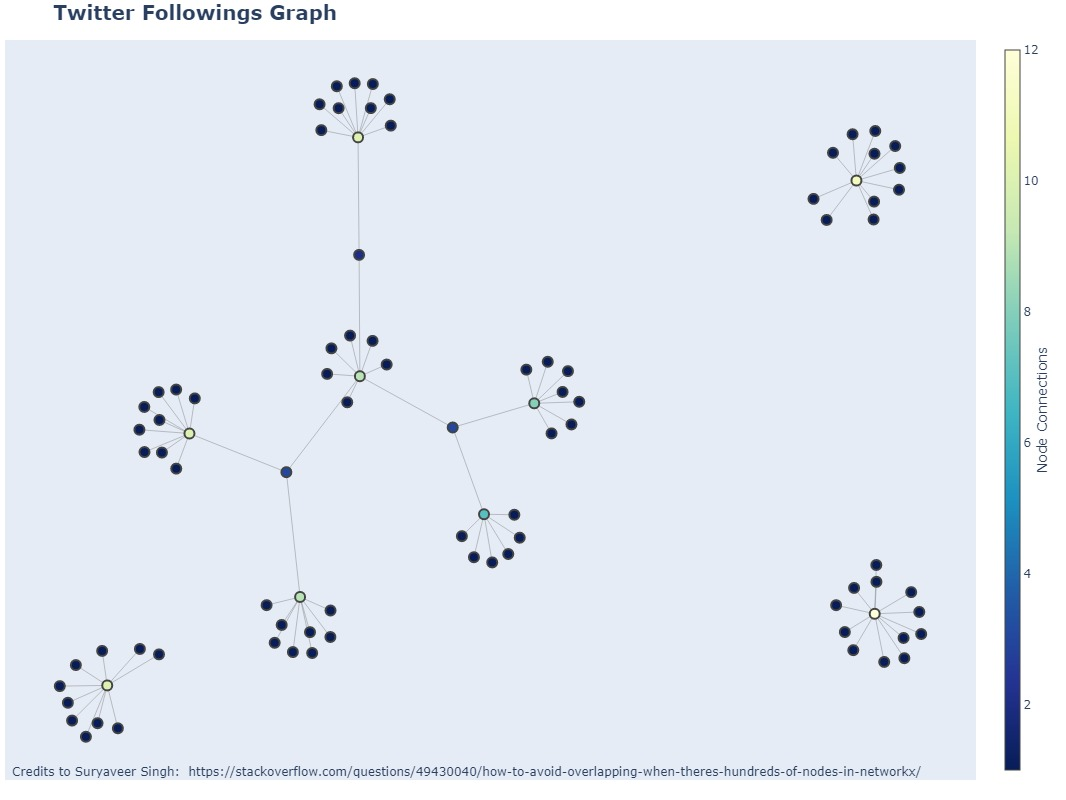
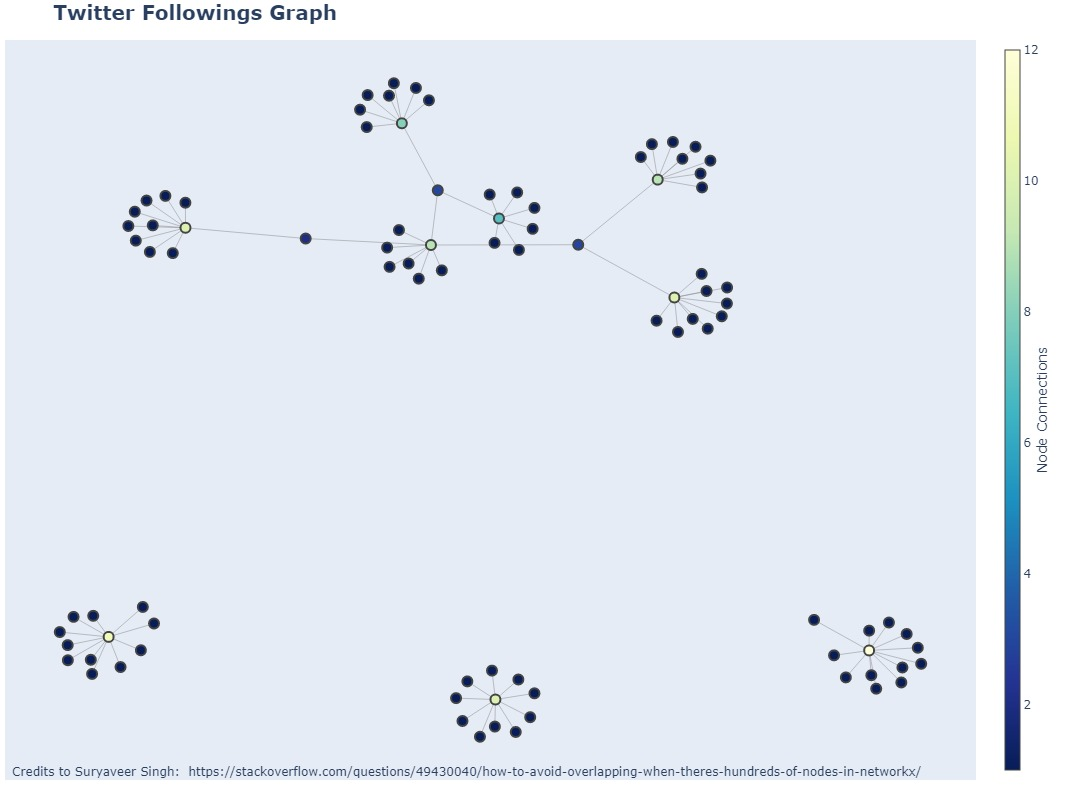
follow_graph.py can be run separately, added more comments into main script, to create most_recent_followings.txt to be used for follow_graph.py outside of the main script run, updated requirements.txt, added .gitignore

diff --git a/follow_graph.py b/follow_graph.py
@@ -2,6 +2,7 @@ import networkx as nx
 import matplotlib.pyplot as plt
 import plotly.graph_objects as go
 import os
+import ast
 
 def create_follow_graph(follow_dict):
 
@@ -100,38 +101,47 @@ def create_follow_graph(follow_dict):
 
     return fig
 
-### Testing function ###
+### Testing the function ###
 
-# sample_dict =   {'pranksy': 
-#                     {'@cleandood', '@Rosewolf_artist', '@rebelstudios_io', '@_Goldenwolf_', 
-#                     '@LostParadigms', '@jackbutcher', '@gabrielleydon', '@0xAndy_eth', '@futureverse' 
-#                     }, 
-#                 'SmartypantsNFT': 
-#                     {'@coinmamba', '@degenpoet', '@PalantirVision', '@ProTheDoge', '@MomoguroNFT', 
-#                     '@TateTheTalisman', '@ToysRUsNFT', '@ABC123Community', '@darenyoong', '@LtLollipop9' 
-#                     }, 
-#                 'talesrune': {'@symbiogenesisPR', '@pawwaoart', '@unfuddable', '@cryptoanon888', 
-#                     '@SweeperSolana', '@traderhuey', '@ALEXGM__', '@226ETH_', '@_3noki3_', '@CryptoCapo_' 
-#                     }, 
-#                 'fiin9021': {'@DimensionalsRPG', '@daytonmills', '@Bonne_Syu', '@ExodiaGods', 
-#                     '@MomoguroNFT', '@kaanayaz_', '@AlphaKingNFT_', '@OldeusOfficial', '@gabrielleydon' 
-#                     }, 
-#                 'SupremeGodGod': {'@xuedison3', '@Supers6061', '@nftboi_', '@SheckyLin', '@dreamfallart', 
-#                     '@backendnft', '@NephalemNFT', '@ProjectZR_X', '@gabrielleydon', '@TENGOKU_HQ'
-#                     }, 
-#                 'pinseth': {'@MFHoz', '@gurgavin', '@FIMindset__', '@KUMALEON_', '@drugstore', '@CryptoPoseidonn', 
-#                     '@unusual_whales', '@WatcherGuru', '@SnailySnailsNFT', '@skulourful', '@YakuzaFriday'
-#                     }, 
-#                 'kristopherlukas': {'@DimensionalsRPG', '@texturepunx', '@fudibles', 
-#                     '@ShinseiVillage', '@Kyuu_bi_jima', '@HelpMeTradeThis', '@skwgmi', '@central_frog'
-#                     }, 
-#                 'cozypront': {'@zulpverse', '@SteezyPS', '@3uanNFT', '@shrimpgangsol', '@L4V107_NFT', '@mahesayoms', 
-#                     '@StakeEddie', '@rigstertv', '@kimpossiblecpto', '@fresh0x', '@Jazz1x1', '@FrancoNFTS'
-#                     }, 
-#                 'EasyEatsBodega': {'@DimensionalsRPG', '@IronMike_13', 
-#                     '@_timeless_relic', '@KingFlores150', '@evanluza', '@HakoiriOfficial', '@FakeJonnyy'
-#                     }
-#                 }
+if __name__ == "__main__":
+    if os.path.exists('most_recent_followings.txt') == True:
+        print('Followings text file found, using the saved dictionary ...\n')
+        with open('most_recent_followings.txt') as f:
+            follow_dict = ast.literal_eval(f.read().replace('\n', ''))
+    else:
+        print('Followings text file not found, using a sample dictionary ...\n')
+        follow_dict =   {'pranksy': 
+                            {'@cleandood', '@Rosewolf_artist', '@rebelstudios_io', '@_Goldenwolf_', 
+                            '@LostParadigms', '@jackbutcher', '@gabrielleydon', '@0xAndy_eth', '@futureverse' 
+                            }, 
+                        'SmartypantsNFT': 
+                            {'@coinmamba', '@degenpoet', '@PalantirVision', '@ProTheDoge', '@MomoguroNFT', 
+                            '@TateTheTalisman', '@ToysRUsNFT', '@ABC123Community', '@darenyoong', '@LtLollipop9' 
+                            }, 
+                        'talesrune': {'@symbiogenesisPR', '@pawwaoart', '@unfuddable', '@cryptoanon888', 
+                            '@SweeperSolana', '@traderhuey', '@ALEXGM__', '@226ETH_', '@_3noki3_', '@CryptoCapo_' 
+                            }, 
+                        'fiin9021': {'@DimensionalsRPG', '@daytonmills', '@Bonne_Syu', '@ExodiaGods', 
+                            '@MomoguroNFT', '@kaanayaz_', '@AlphaKingNFT_', '@OldeusOfficial', '@gabrielleydon' 
+                            }, 
+                        'SupremeGodGod': {'@xuedison3', '@Supers6061', '@nftboi_', '@SheckyLin', '@dreamfallart', 
+                            '@backendnft', '@NephalemNFT', '@ProjectZR_X', '@gabrielleydon', '@TENGOKU_HQ'
+                            }, 
+                        'pinseth': {'@MFHoz', '@gurgavin', '@FIMindset__', '@KUMALEON_', '@drugstore', '@CryptoPoseidonn', 
+                            '@unusual_whales', '@WatcherGuru', '@SnailySnailsNFT', '@skulourful', '@YakuzaFriday'
+                            }, 
+                        'kristopherlukas': {'@DimensionalsRPG', '@texturepunx', '@fudibles', 
+                            '@ShinseiVillage', '@Kyuu_bi_jima', '@HelpMeTradeThis', '@skwgmi', '@central_frog'
+                            }, 
+                        'cozypront': {'@zulpverse', '@SteezyPS', '@3uanNFT', '@shrimpgangsol', '@L4V107_NFT', '@mahesayoms', 
+                            '@StakeEddie', '@rigstertv', '@kimpossiblecpto', '@fresh0x', '@Jazz1x1', '@FrancoNFTS'
+                            }, 
+                        'EasyEatsBodega': {'@DimensionalsRPG', '@IronMike_13', 
+                            '@_timeless_relic', '@KingFlores150', '@evanluza', '@HakoiriOfficial', '@FakeJonnyy'
+                            }
+                        }
 
-# fig = create_follow_graph(sample_dict)
-# fig.show()
+    fig = create_follow_graph(follow_dict)
+    fig.show()
+
+    print('Graph generated')

diff --git a/nft_degens_following_trackers.py b/nft_degens_following_trackers.py
@@ -18,14 +18,9 @@ try:
     from follow_graph import create_follow_graph
 
     chrome_options=Options()
-    # chrome_options.addArguments("--window-size=1920,1080")
-    # chrome_options.addArguments("--start-maximized")
-    # chrome_options.add_argument("--headless")
     chrome_options.headless = True
     chrome_options.add_argument("--no-sandbox")
-    # chrome_options.add_argument("--disable-gpu")
     chrome_options.add_argument("--disable-software-rasterizer")
-    # chrome_options.add_argument("window-size=1400,2100") 
     chrome_options.add_argument("--log-level=3")
     chrome_options.add_argument('--disable-dev-shm-usage')
     chrome_options.add_experimental_option("excludeSwitches", ["enable-automation"])
@@ -79,21 +74,27 @@ print('Retrieved the list of degens ...\n')
 
 new_file_flag = 0
 
-if os.path.exists('prev_followings.txt')==False:  
+if os.path.exists('prev_followings.txt') == False:  
     new_file_flag = 1
-    create_file= open("prev_followings.txt",'w+')  # This is just to  create the file in case it doesn't exist
+    create_file = open("prev_followings.txt",'w+')  # This is just to create the file in case it doesn't exist
     create_file.close()
 else:
     with open('prev_followings.txt') as f:
         prev_followings_dict = ast.literal_eval(f.read().replace('\n', ''))
 
+if os.path.exists('most_recent_followings.txt') == False:  
+    create_file = open("most_recent_followings.txt",'w+')  # This is just to create the file in case it doesn't exist
+    create_file.close()
+
 print("Retrieved every degens' followings in the previous check ...\n")
+
+### Other variables declaration ###
 
 rerun_num = 1   
 
 followings_dict = {}
 cur_new_followings_summary_set = set()
-cur_followings_dict = {}
+cur_new_followings_dict = {}
 
 console = Console()
 
@@ -104,12 +105,12 @@ table.add_column("New Followings in Twitter", justify="right")
 homepage = 'https://en.whotwi.com/'
 total_degens = len(lines)
 count = 0
+timeout = 30   # [seconds]
 discord_msg_max_char = 2000
 
 ### Scanning ###
 
 for line in lines:
-    # print(line)
 
     rerun_state = 0
 
@@ -129,15 +130,12 @@ for line in lines:
 
             driver.get(url)
 
-            # time.sleep(30)
-
             page_flag = 0
             followings_flag = 0
             user_not_found_flag = 0
             user_private_flag = 0
             user_suspended_flag = 0
 
-            timeout = 40   # [seconds]
             timeout_start = time.time()
 
             while followings_flag == 0:
@@ -145,7 +143,6 @@ for line in lines:
                     if time.time() > timeout_start + timeout:
                         print('Refreshing ' + url + ' ...\n')
                         driver.get(url)
-                        timeout = 40   # [seconds]
                         timeout_start = time.time()
                     for text in driver.find_elements_by_xpath('//div[@id="user_column_summary_screen_name"]'):
                         if line.lower() in text.get_attribute('textContent').lower():
@@ -180,7 +177,6 @@ for line in lines:
                         print('Reconnecting to ' + url + ' ...\n')
                         page_flag = 0
                         driver.get(url)
-                        timeout = 40   # [seconds]
                         timeout_start = time.time()
 
             if user_not_found_flag == 1:
@@ -239,7 +235,7 @@ for line in lines:
                 else:
                     cur_new_followings_set = new_followings_set
 
-            cur_followings_dict[degen_id] = cur_new_followings_set
+            cur_new_followings_dict[degen_id] = cur_new_followings_set
 
             followings_text = ''
             followings_text_list = []
@@ -329,8 +325,12 @@ file_var = open('prev_followings.txt', "w+")
 file_var.write(str(followings_dict))
 file_var.close()
 
+file_var = open('most_recent_followings.txt', "w+")
+file_var.write(str(cur_new_followings_dict))
+file_var.close()
+
 print("\nGenerating follow graph for the current scan ...\n")
-_ = create_follow_graph(cur_followings_dict)
+_ = create_follow_graph(cur_new_followings_dict)
 
 ### Get total time taken ###
 
